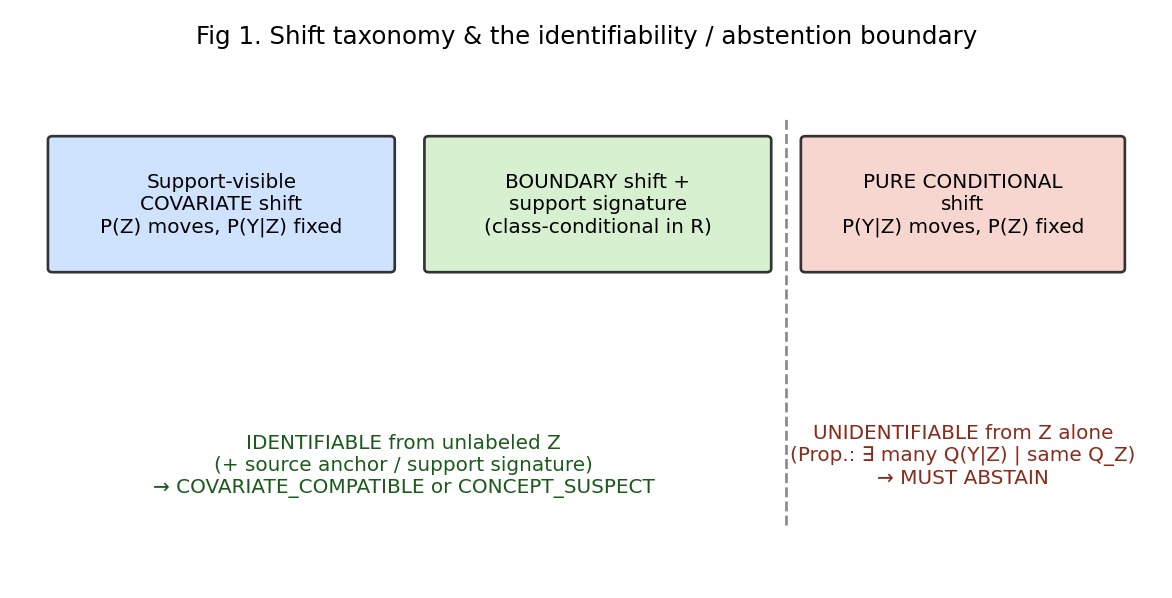
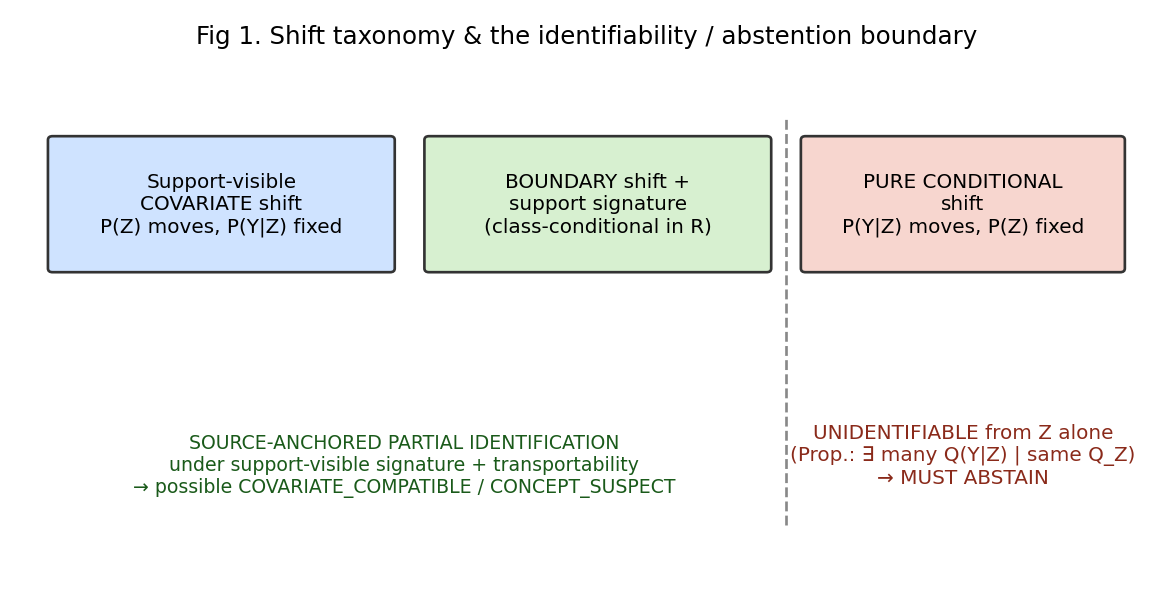
csc CSC docs-only wording cleanup: remove residual positive/absolute claims (post-confirmatory-FAIL)
No method/protocol/threshold/seed/tag/result change; no reruns. Tightens manuscript-facing wording so it
matches the frozen confirmatory FAIL (the run emitted 1/65 forbidden, CP-UB 0.0709 > alpha):
  - THEORY.md: "...built to never err by false certification" -> "engineered to fail closed; false-cert
    control is a FINITE-SAMPLE statistical endpoint, NOT a structural guarantee; the frozen confirmatory
    run did not establish it (1/65 forbidden)."
  - THEORY.md + PREREGISTRATION.md: "geometric p_global has correct type-I" -> "h0-bootstrap-calibrated /
    type-I-protective in the development nulls; finite-sample control is the frozen confirmatory endpoint,
    which was NOT met."
  - PREREGISTRATION.md: drop "the result is the real-data run" -> historical note; current result = the
    identifiability/abstention boundary + audited negative confirmatory; real EEG deferred (never
    authorized). Original Claim re-labelled "intended endpoints (NOT achieved)" + the confirmatory outcome.
  - Fig 1 (make_paper_figures.py + regenerated fig1 PNG): "IDENTIFIABLE from unlabeled Z" -> "SOURCE-
    ANCHORED PARTIAL IDENTIFICATION under support-visible signature + transportability"; right side keeps
    "UNIDENTIFIABLE from Z alone -> MUST ABSTAIN".
Scope limited to THIS frozen certificate + THIS dev core + the pure-conditional impossibility theorem.

Changed region(s): [[0.1229, 0.7224, 0.5836, 0.8428]]

diff --git a/csc/tools/make_paper_figures.py b/csc/tools/make_paper_figures.py
@@ -88,9 +88,9 @@ def fig1():
     _box(ax, 6.9, 3.3, 2.8, 1.4, "PURE CONDITIONAL\nshift\nP(Y|Z) moves, P(Z) fixed", "#f7d6cf")
     # identifiable vs not
     ax.plot([6.75, 6.75], [0.6, 4.9], ls="--", color="#888", lw=1.2)
-    ax.text(3.4, 0.95, "IDENTIFIABLE from unlabeled Z\n(+ source anchor / support signature)\n"
-                       "→ COVARIATE_COMPATIBLE or CONCEPT_SUSPECT", ha="center", fontsize=9,
-            color="#1a5a1a")
+    ax.text(3.4, 0.95, "SOURCE-ANCHORED PARTIAL IDENTIFICATION\nunder support-visible signature + "
+                       "transportability\n→ possible COVARIATE_COMPATIBLE / CONCEPT_SUSPECT", ha="center",
+            fontsize=8.5, color="#1a5a1a")
     ax.text(8.3, 1.05, "UNIDENTIFIABLE from Z alone\n(Prop.: ∃ many Q(Y|Z) | same Q_Z)\n"
                        "→ MUST ABSTAIN", ha="center", fontsize=9, color="#8a2a1a")
     out = os.path.join(FIGDIR, "fig1_taxonomy_boundary.png")

diff --git a/csc/PREREGISTRATION.md b/csc/PREREGISTRATION.md
@@ -11,25 +11,35 @@
 > + this audited negative result** (NOT a positive detector). See `notes/CSC_CONFIRMATORY_RESULT.md`
 > and `notes/CSC_MANUSCRIPT_RESULT_MEMO.md`. NO method-revision round opened; NO P2.
 
-Status: **DRAFT v1 (CSC-P0 + CSC-P1 implemented on the simulator; real-data run NOT frozen).**
+Status: **DRAFT v1 (CSC-P0 + CSC-P1 implemented on the simulator; frozen SYNTHETIC confirmatory run
+COMPLETE = FAIL, see banner above).**
 Follows the project freeze-before-run discipline (`notes/FREEZE_PROTOCOL.md`,
-`notes/A0_FALSIFICATION_FROZEN.md`). §3 numbers are *synthetic* validation that the method
-and its self-tests behave as specified; they are **not** the result. The result is the
-real-data run (§2), to be frozen (thresholds, splits, seeds, equivalence bands) before
-execution — and only AFTER the CSC-P1 calibration is locked.
+`notes/A0_FALSIFICATION_FROZEN.md`). §3 numbers are *synthetic* validation that the method and its
+self-tests behave as specified; they are **not** the result.
+**Historical note:** this preregistration originally targeted a later real-data freeze as "the
+result." After the frozen synthetic confirmatory test FAILED, the current manuscript result is the
+**identifiability/abstention boundary + the audited negative confirmatory outcome** (Direction A). Real
+EEG (§2) is **not** part of the validated result and is **deferred to future work** — it was never
+authorized and no real-data run was frozen.
 
 ---
 
 ## 1. Hypothesis and output
 
 A three-state certificate over an unlabeled target batch:
-`COVARIATE_COMPATIBLE` / `CONCEPT_SUSPECT` / `UNIDENTIFIABLE`. Claim:
+`COVARIATE_COMPATIBLE` / `CONCEPT_SUSPECT` / `UNIDENTIFIABLE`.
 
-> Reading only unlabeled target `Z` (no target labels, no source examples), the certificate
-> (a) controls FALSE certification of an unidentifiable shift (pure conditional, pure label, or
-> out-of-atlas) at level `alpha` — by abstaining (THEORY §1 proves a Z-only certifier MUST be
-> able to abstain); and (b) has **stable, direction-linked power** to flag a real, marginally-
+**Original intended endpoints (NOT achieved — the frozen confirmatory run failed BOTH; see banner):**
+
+> Reading only unlabeled target `Z` (no target labels, no source examples), the certificate was
+> intended to (a) control FALSE certification of an unidentifiable shift (pure conditional, pure
+> label, or out-of-atlas) at level `alpha` — by abstaining (THEORY §1 proves a Z-only certifier MUST
+> be able to abstain); and (b) have **stable, direction-linked power** to flag a real, marginally-
 > visible concept change.
+
+**Frozen confirmatory outcome:** neither endpoint was met on unseen clusters — false-cert control
+(forbidden 1/65, CP-UB 0.0709 > α) and power (28/65, CP-LB 0.326 < 0.50) both FAILED. The
+abstention-boundary theory (THEORY §1) stands; the positive operating core does not.
 
 What is STRUCTURAL vs STATISTICAL (CSC-P1.4.2/P1.4.3 #7): byte-identical targets always get the
 SAME output (exact-pair indistinguishability) is structural; controlling clean/pure/label false
@@ -259,11 +269,13 @@ clusters**.
 * **Concept-FIRST geometry** (THEORY §4): concept estimated from the class-conditional residual
   `R` first, `cov = a_d ⊥ concept`. Fixes the visible-concept (asymmetric `s_y`) leak that a
   cov-first order absorbed into `cov_dirs`, emptying `concept_dirs`.
-* **Concept gate = geometric max-stat AND decoder, with type-I controlled by the geometric gate**
-  (THEORY §3.3/§4): `concept_evidenced = (p_global ≤ α) AND decoder-T significant`. Empirically the
-  geometric `p_global` has correct type-I on a covariate-only source (~0.8, never fires) while a
-  decoder-ONLY gate over-fires ~50% (the subject random effect is confounded with the subject's
-  single label → finite-sample class-conditional noise). A magnitude-only direction gate
+* **Concept gate = geometric max-stat AND decoder, the geometric gate being the type-I-protective
+  component** (THEORY §3.3/§4): `concept_evidenced = (p_global ≤ α) AND decoder-T significant`.
+  Empirically the geometric `p_global` was h0-bootstrap-calibrated and type-I-protective in the
+  development nulls on a covariate-only source (~0.8, rarely fires) while a decoder-ONLY gate over-fires
+  ~50% (the subject random effect is confounded with the subject's single label → finite-sample
+  class-conditional noise). NB finite-sample false-cert control is the frozen confirmatory endpoint,
+  which was NOT met (1/65 forbidden, CP-UB 0.0709 > α). A magnitude-only direction gate
   (`concept_top ≥ κ·cov_noise_scale`) was tried and REJECTED (uncalibrated — passes on pure noise);
   it is a diagnostic only. Honest subject-level power is LOW (cluster-consistent null is
   conservative) — an envelope quantity, not a flaw.

diff --git a/csc/THEORY.md b/csc/THEORY.md
@@ -139,12 +139,13 @@ geometry null runs the SAME support gate; `>invalid_null_frac_max` invalid ⇒ t
 **Both gates are required, and the inference unit is the subject (CSC-P1.4.1).** `concept_evidenced`
 needs BOTH the geometric global max-statistic (`p_global ≤ α`) AND the cross-fitted decoder `T`
 significant. The reason for the AND is type-I, and it is empirical: on a NO-concept (covariate-only)
-source the **geometric `p_global` has correct type-I** (the re-estimated `Y* ~ p̂0` spectrum matches
-the observed, so `p_global` stays high ~0.8), but a **decoder-only gate does NOT** — each synthetic
-subject carries a latent random effect and exactly one label, so the random effect is confounded with
-class and manufactures finite-sample class-conditional structure that a decoder-only test reads as
-concept (~50% false positives). The geometric gate controls type-I; the decoder confirms direction-
-linked boundary movement. The cost is LOW power at the subject level (the cluster-consistent null is
+source the **geometric `p_global` is h0-bootstrap-calibrated and was type-I-protective in the development
+nulls** (the re-estimated `Y* ~ p̂0` spectrum matches the observed, so `p_global` stays high ~0.8), but a
+**decoder-only gate does NOT** — each synthetic subject carries a latent random effect and exactly one
+label, so the random effect is confounded with class and manufactures finite-sample class-conditional
+structure that a decoder-only test reads as concept (~50% false positives). The geometric gate is the
+type-I-protective component and the decoder confirms direction-linked boundary movement; **finite-sample
+false-certification control is ultimately the frozen confirmatory endpoint, which was NOT met.** The cost is LOW power at the subject level (the cluster-consistent null is
 conservative with few subjects per cell) — an honest difficulty-envelope quantity, not a flaw.
 A magnitude-only direction gate (`concept_top ≥ κ·cov_noise_scale`) was tried and REJECTED: it
 compares the full class-residual top singular to a cov-subspace projection and passes on pure noise
@@ -224,9 +225,12 @@ decoder-evidenced (concept) or stability-gated (covariate). The label gate is no
 finite-target class-balance fluctuation) no longer vetoes a clearly concept-dominant shift — the
 old *absolute* `n_label ≥ tau_label` over-abstained genuine boundary shifts. The deployment path is cluster-aware (subject votes); the support gate,
 target mean, calibration pseudo-targets, bootstraps, and oracle OOB all use the same SUBJECT
-analysis unit. Everywhere else it abstains. It may err by over-abstaining (low power); it is built
-to never err by **false certification**. The certifier thresholds the **exact same** statistic
-(`components`/`visibility_statistic`) the calibrator calibrates.
+analysis unit. Everywhere else it abstains. It is **engineered to fail closed** and to reduce false
+certification through support, attribution, dominance, and bootstrap gates; **however,
+false-certification control is a finite-sample statistical endpoint, NOT a structural guarantee, and
+the frozen confirmatory run did not establish it** (it emitted 1/65 forbidden certificates on unseen
+clusters, CP-UB 0.0709 > α=0.05; see `notes/CSC_CONFIRMATORY_RESULT.md`). The certifier thresholds the
+**exact same** statistic (`components`/`visibility_statistic`) the calibrator calibrates.
 
 **Whole-protocol epoch-duplication invariance (CSC-P1.4.5).** Duplicating a (subject,condition)'s
 epochs is redundant data and must change NOTHING. This now holds for the ENTIRE protocol, not just